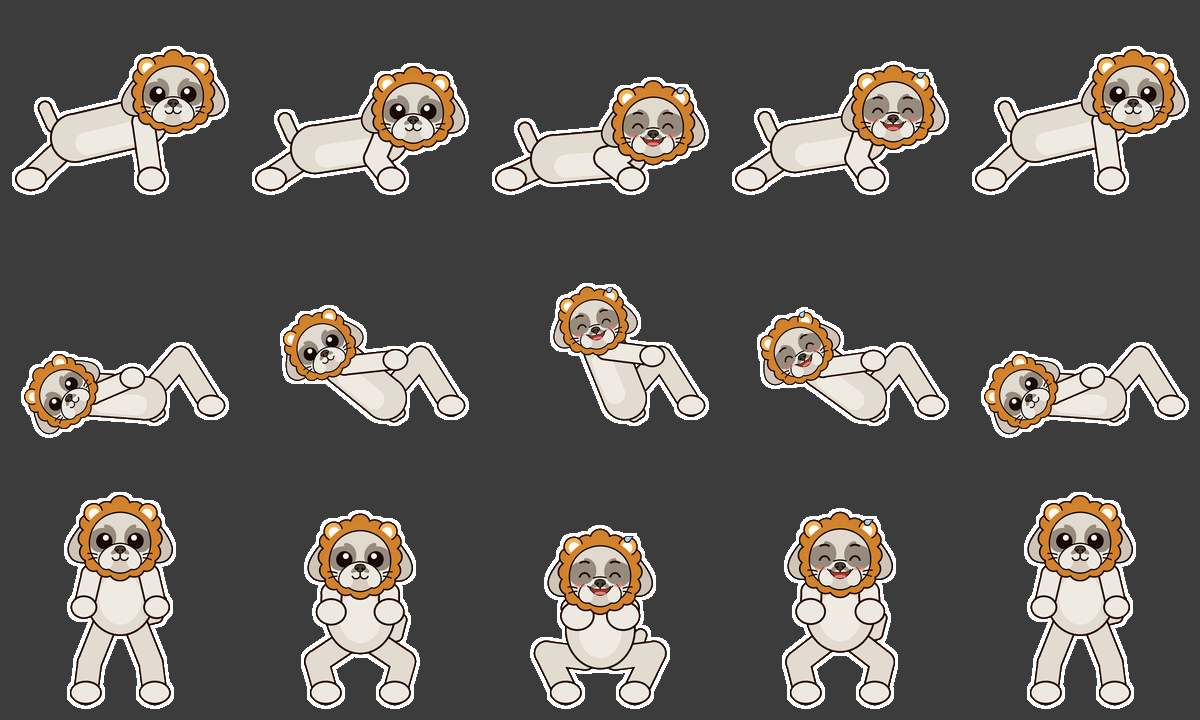
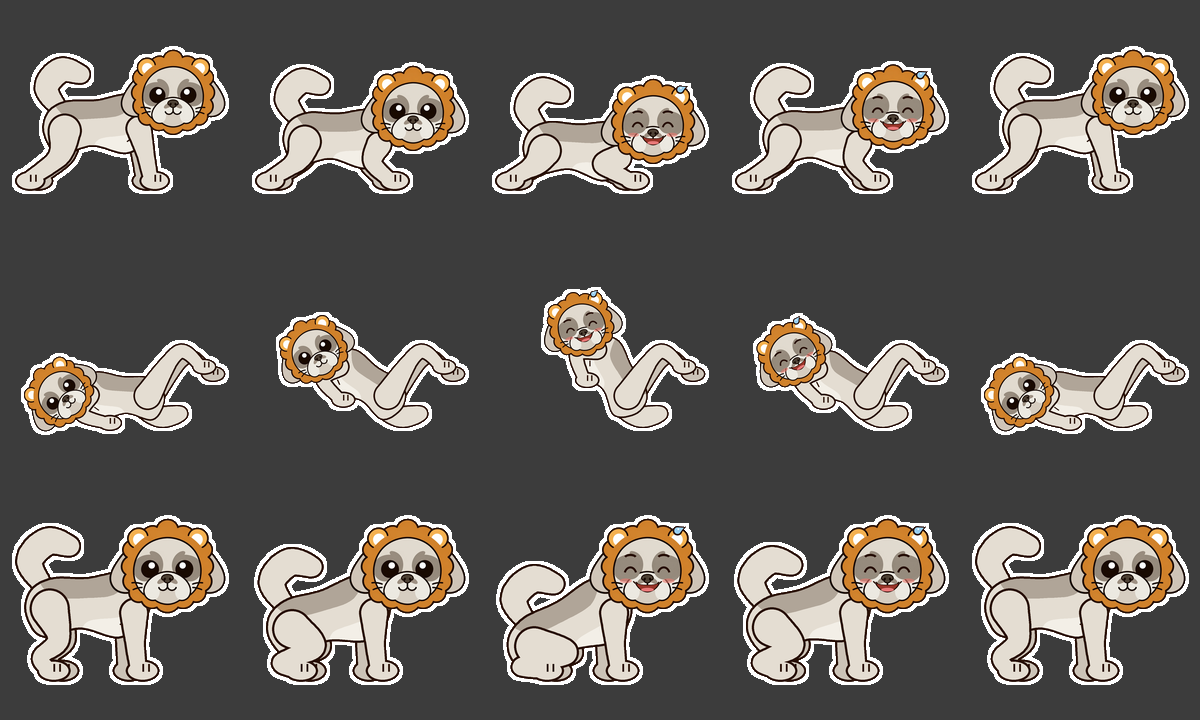
Redraw 'kintore' sticker with a dog-shaped body
Smooth single-outline torso with chest, tuck and rump, four tapered legs
with far legs shaded, fluffy curled tail; all three exercises in side view.

Claude-Session: https://claude.ai/code/session_01KX3WDfyPkAofSs6dqvGAmw

diff --git a/.claude/skills/stamp-create/SKILL.md b/.claude/skills/stamp-create/SKILL.md
@@ -109,7 +109,13 @@ print(ms.verify("assets/gif/名前.gif"))                     # 検証
   - 動きを**前半と後半で分ける**ときは、コマごとの値の並びを前半・後半で別々に組む。例：前半6コマ＝両前足でお腹を押さえて `-12, -6, 4, 12, 6, -4` 度で大きく転げる（体も傾きの向きに `傾き×2` px だけ横へ。大きく動かすと足先が切れる）／後半6コマ＝転がりを止めて地面を2回叩く
   - 端で切れていないかは、目で見るだけでなく数字でも確かめる：GIFの各コマで、上下左右いちばん端の列・行に透明でない画素があるかを調べ、あれば切り抜き範囲や部品の位置を直す
   - 前足でバンバン叩く版もある：振り上げ → 叩く（体がむにっと沈み、黄色い衝撃線が前足の左右に広がる）→ はね返り、の3コマを右→左で2回。叩いた前足は画面の下に隠れない高さに着地させる
-- **筋トレ（腕立て → 腹筋 → スクワット）（画像1枚＋体を描き足す）**：体は関節で曲がる太い手足（肩→ひじ→手、腰→ひざ→足）と、カプセル形の胴体＋明るいお腹で組む。腕立て・腹筋は**横から**（右向き）、スクワットは脚の曲がりが分かる**正面から**。1種類＝5コマ（スタート250ms → 下ろす途中250ms → いちばん下で踏ん張る450ms → 戻る途中250ms → 戻りきる300ms）＝1.5秒×3種類＝15コマ・4.5秒。踏ん張るコマは「^ ^」のぎゅっとつぶった目・少し開けた口・おでこの汗のしずく。腹筋は寝ると頭が左へはみ出しやすいので全体を右に寄せ、前足は**頭より先に描いて**顔の前を横切らせない。切り抜きは種類ごとに5コマ全体が収まる範囲で `ms.auto_crop` を使う（横長の姿でも大きく映る）
+- **体を描き足すときは「犬の体つき」にする**（ユーザーの好み。人のような棒の手足はダサく見える）：
+  - 胴体は、胸が厚く・お腹が締まり・お尻が丸い形を、制御点を通るなめらかな曲線（キャットムル・ロム曲線）で**つなぎ目のない1本の輪郭**にする。背中に耳と同じグレーの模様（RGB 176,165,152）、胸とお腹に明るい毛（RGB 243,239,231）、胸に短い毛の線を数本
+  - 脚は**4本**。付け根が太く先が細い形（関節の点を通る線に沿って、太さを変えた丸を並べて作る）、先端に横長の丸い足と指の切れ目2本。**奥の脚は少し暗い色**（RGB 204,195,183）にして立体感を出す
+  - しっぽは丸を重ねたふさふさの形で、背中側へくるんと巻く
+  - 輪郭は形から一定距離の範囲を距離計算（`distance_transform_edt`）で求めて塗る（`MaxFilter` は大きな画像だと非常に遅い）
+  - 描く順番：奥の脚 → しっぽ → 胴体（＋模様）→ 手前の脚 → 頭
+- **筋トレ（腕立て → 腹筋 → スクワット）（犬の体つき・すべて横から右向き）**：腕立て＝前足を伸ばした姿勢からひじを後ろへ曲げて胸を下ろす／腹筋＝お腹を見せて仰向け、後ろ足は空中でひざを曲げて持ち上げ、前足は胸の上で折りたたんで（頭の後ろに隠れる）上体を丸めて起こす（前足をひざへ伸ばすと脚が重なってごちゃつく）／スクワット＝4本足で立った姿勢から後ろ足を曲げて「おすわり」のように腰を落とす。1種類＝5コマ（250 → 250 → 踏ん張る450 → 250 → 300ms）＝1.5秒×3種類＝15コマ・4.5秒。踏ん張るコマは「^ ^」の目・少し開けた口・おでこの汗。切り抜きは種類ごとに `ms.auto_crop`
 - GIF は表示時間を 10ms 単位でしか記録できない（125ms は 120ms になる）。合計秒数をきっちり合わせたいときは、130ms と 120ms を交互に並べるなど、10ms 単位の値で組む
 - **跳ねる（画像1枚）**：`sy:0.92, sx:1.05`（しゃがむ）→ `dy:-20`（跳ぶ）→ `dy:-28` → `dy:-20` → 着地 `sy:0.94` → 元に戻る
 - **左右に揺れる（画像1枚）**：`rot` を `0 → 6 → 0 → -6 → 0` の順にする
